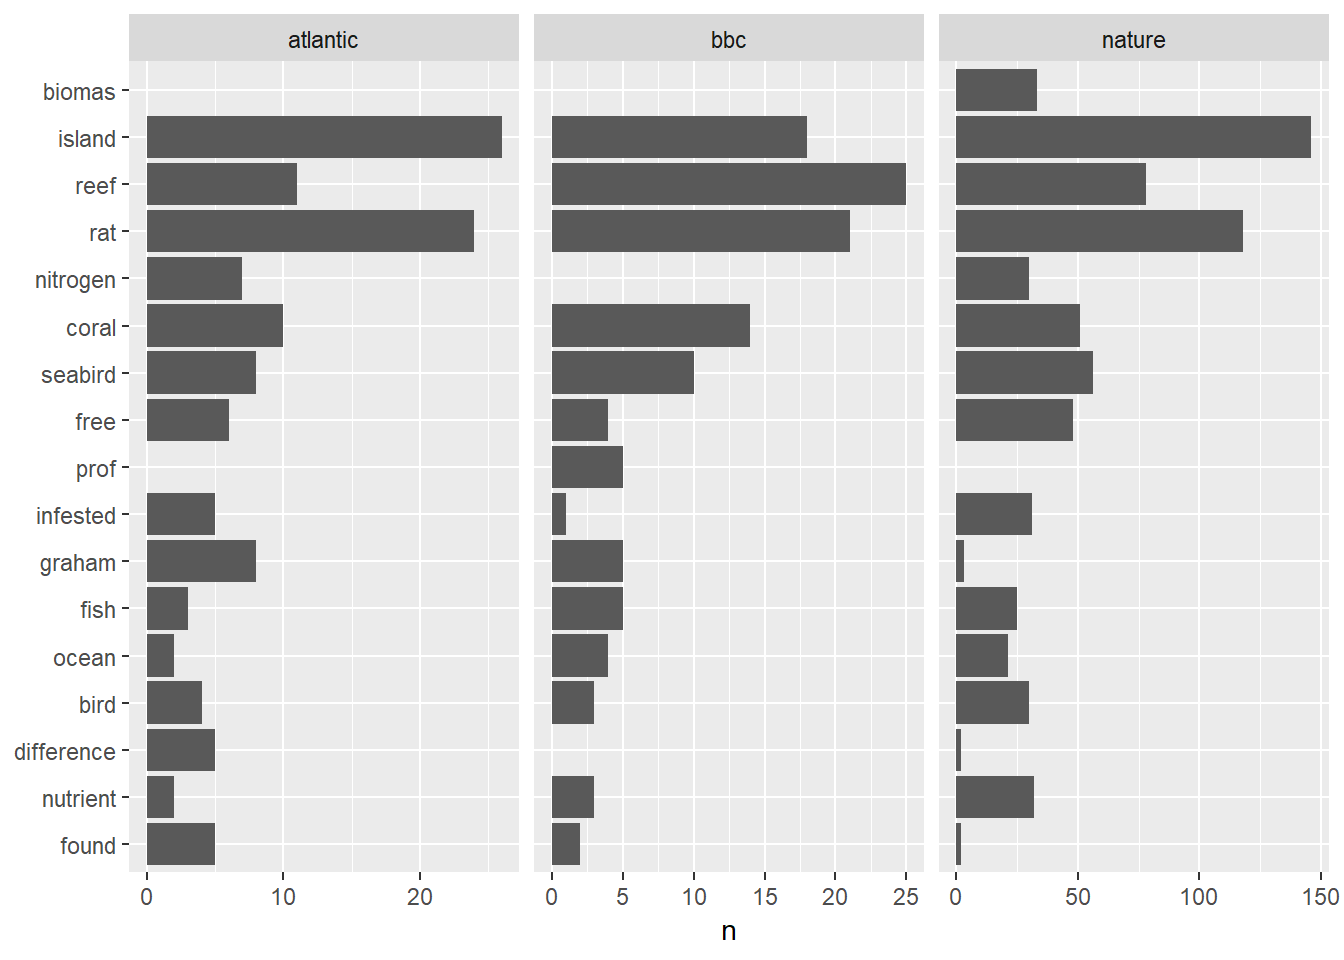
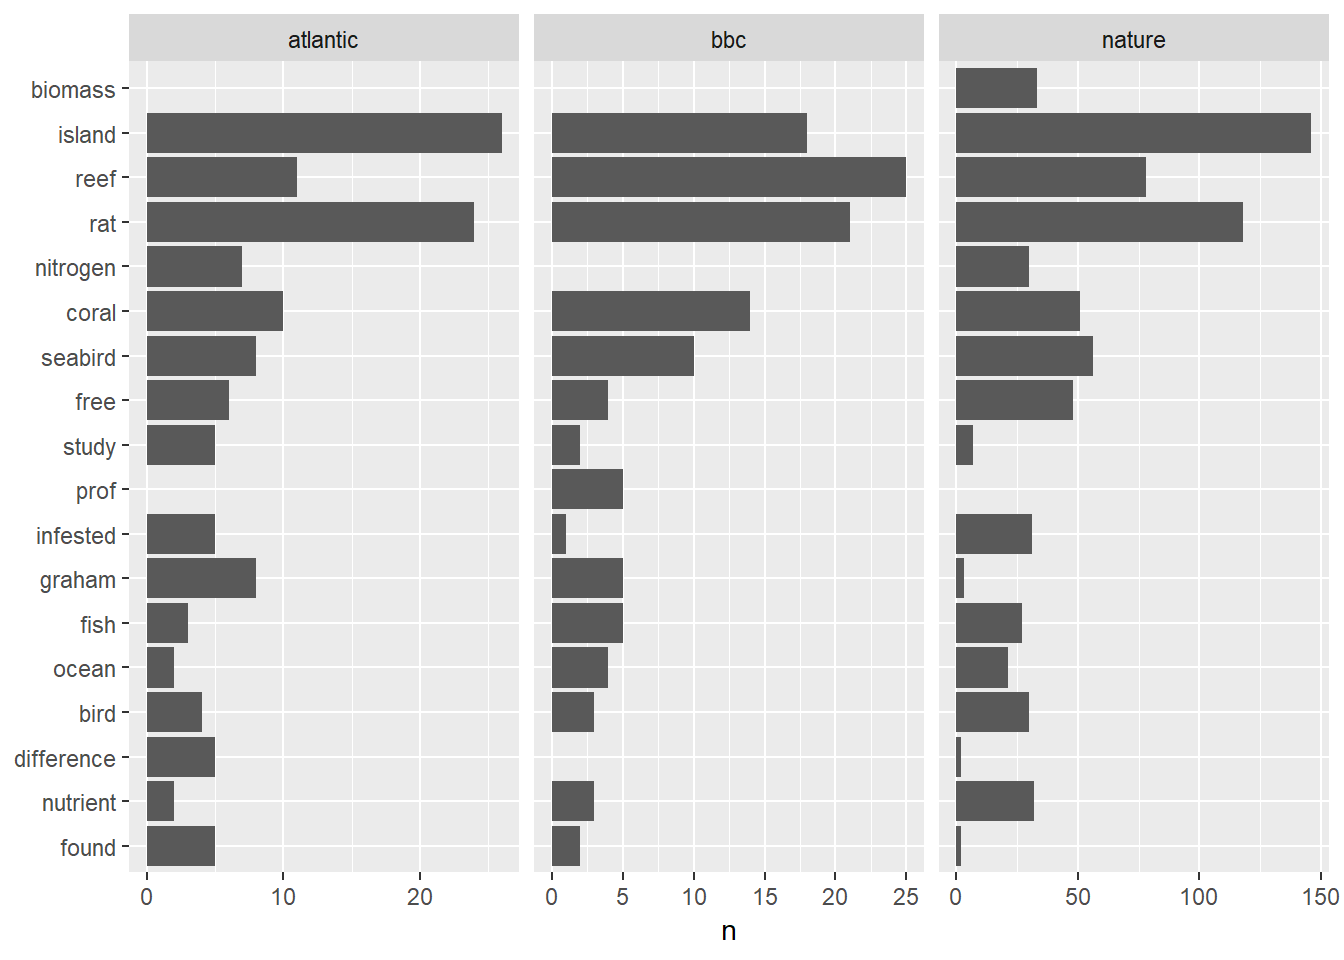
rebuilt

diff --git a/content/post/2018-07-12-rats-to-reefs.html b/content/post/2018-07-12-rats-to-reefs.html
@@ -128,11 +128,11 @@ all_words %&gt;%
 ##   source   single_word count_word
 ##   &lt;chr&gt;    &lt;lgl&gt;            &lt;int&gt;
 ## 1 atlantic FALSE               50
-## 2 atlantic TRUE               195
+## 2 atlantic TRUE               194
 ## 3 bbc      FALSE               40
 ## 4 bbc      TRUE               146
-## 5 nature   FALSE              571
-## 6 nature   TRUE               820</code></pre>
+## 5 nature   FALSE              563
+## 6 nature   TRUE               812</code></pre>
 </div>
 <div id="conclusion" class="section level2">
 <h2>Conclusion</h2>
